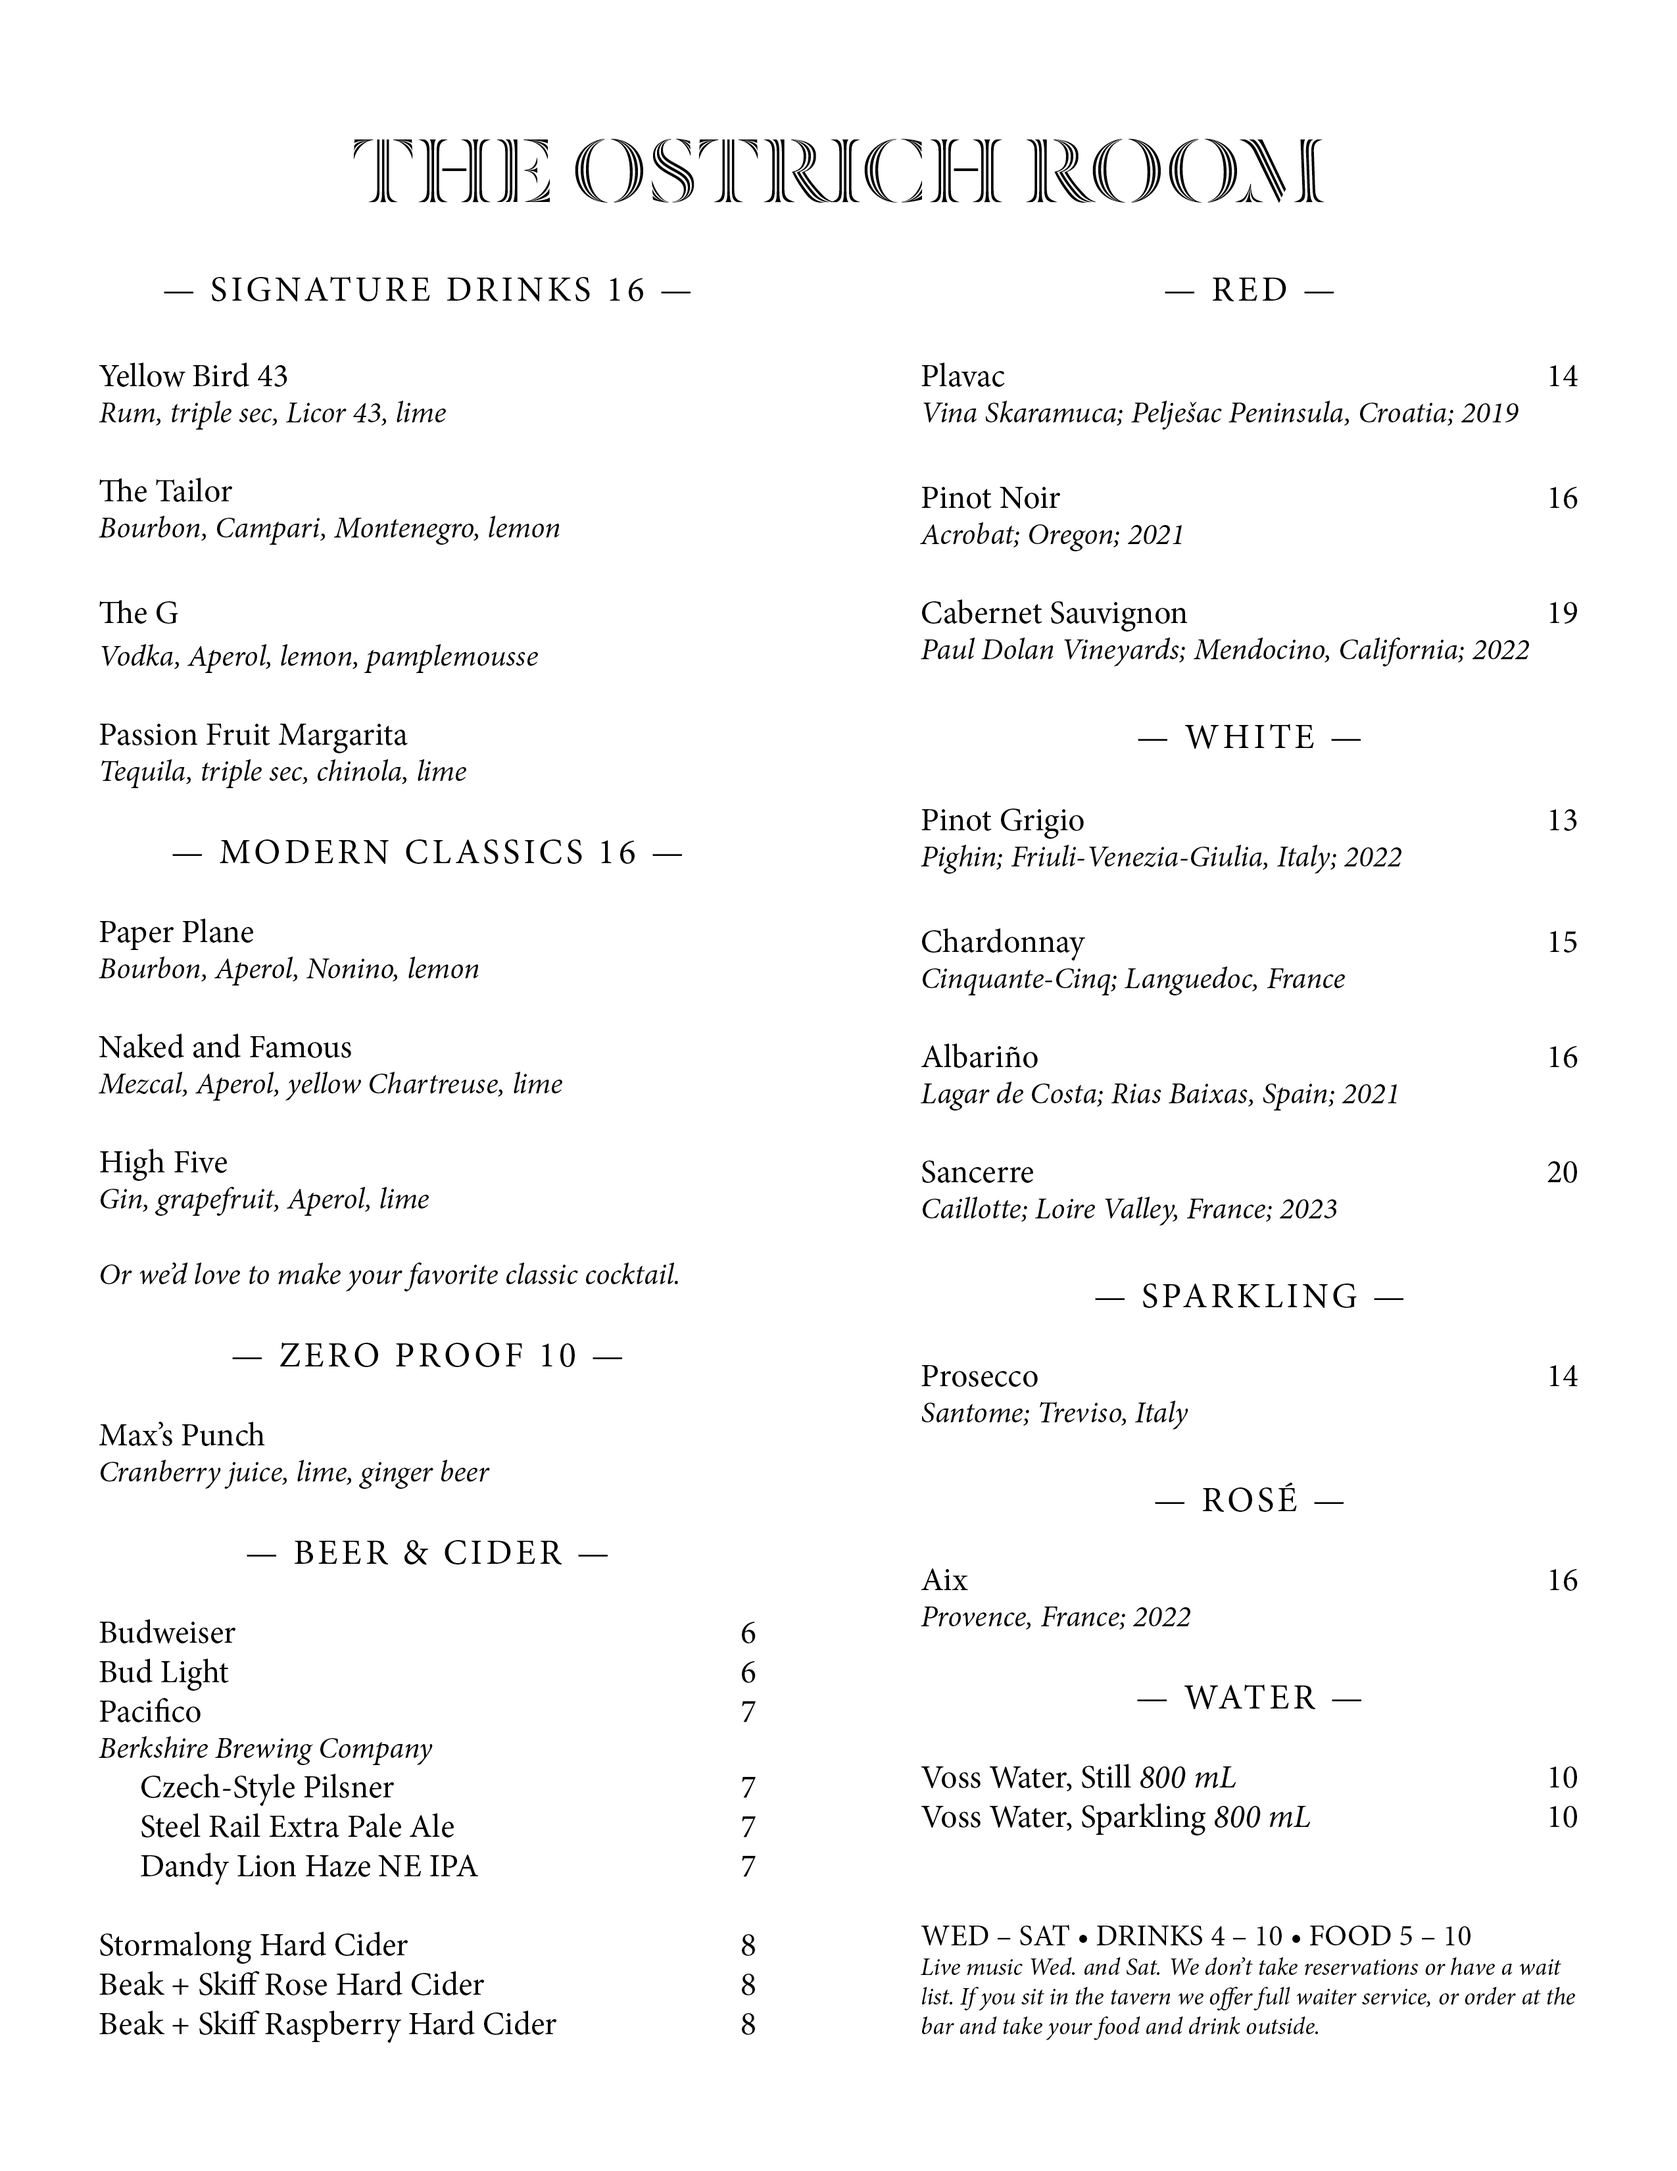
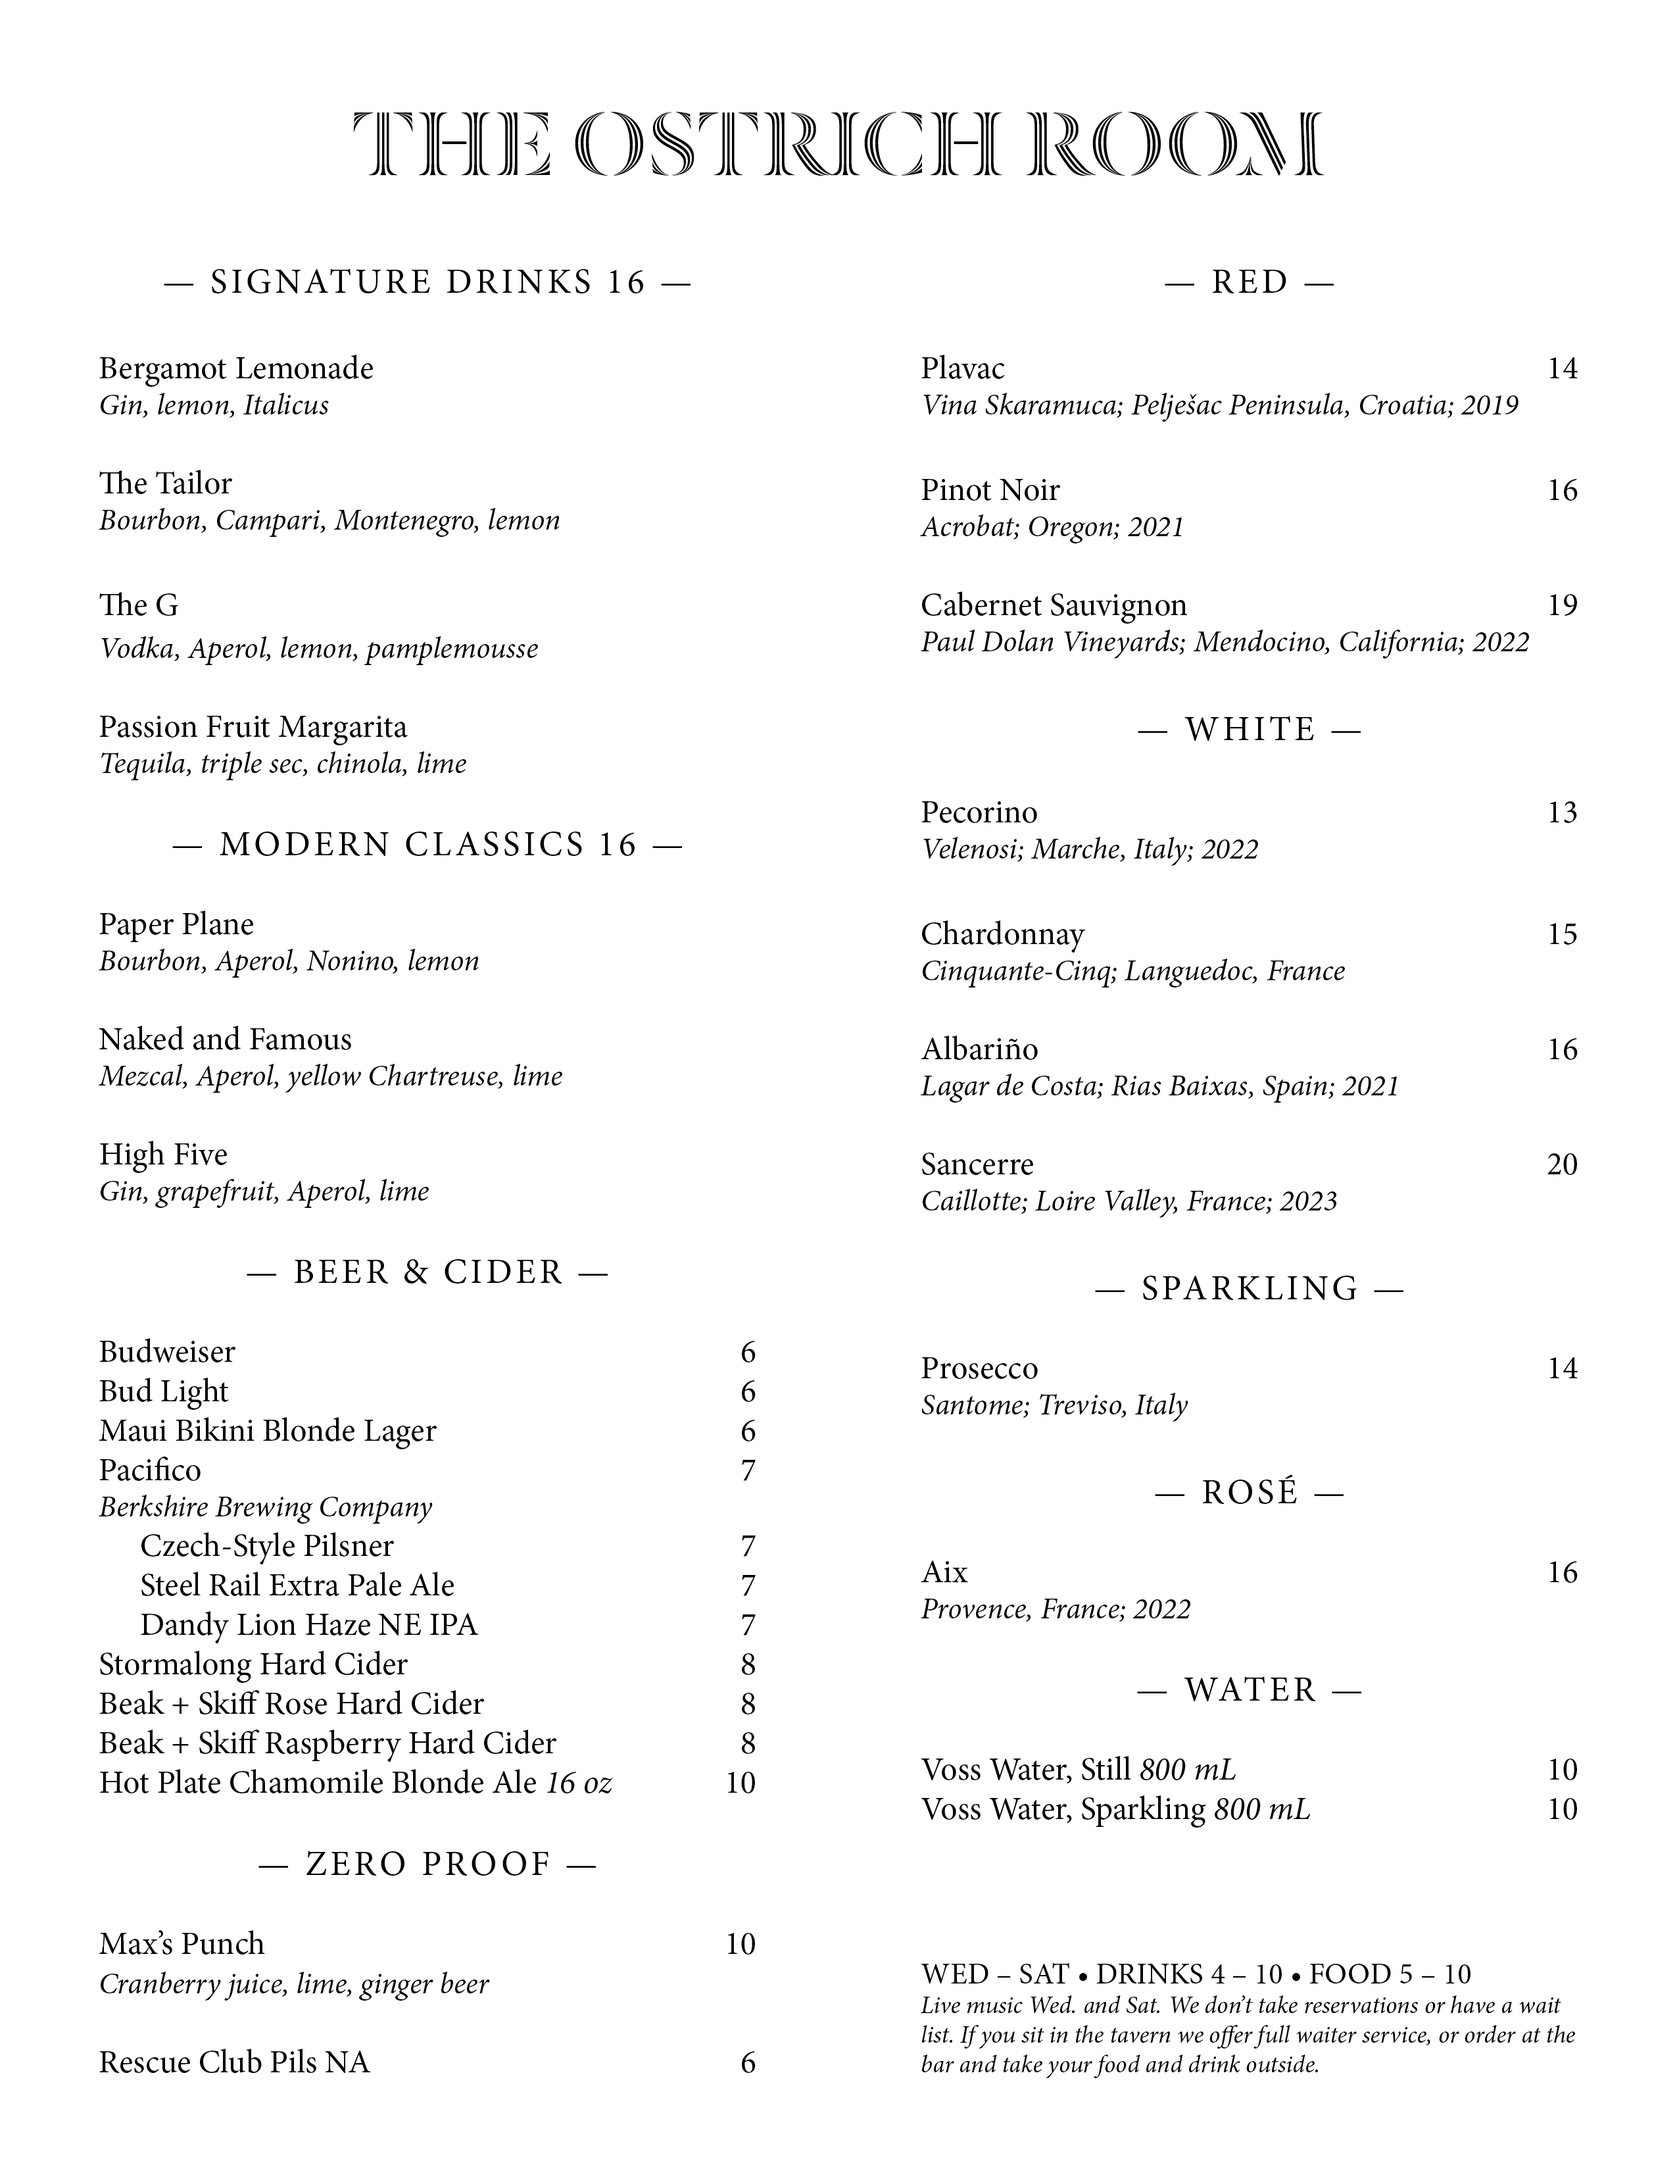
updated menus, now even widths

diff --git a/.svelte-kit/ambient.d.ts b/.svelte-kit/ambient.d.ts
@@ -31,18 +31,19 @@ declare module '$env/static/private' {
 	export const NODE: string;
 	export const FNM_LOGLEVEL: string;
 	export const INIT_CWD: string;
-	export const TERM: string;
 	export const SHELL: string;
+	export const TERM: string;
 	export const FNM_NODE_DIST_MIRROR: string;
 	export const npm_config_metrics_registry: string;
-	export const HOMEBREW_REPOSITORY: string;
 	export const TMPDIR: string;
+	export const HOMEBREW_REPOSITORY: string;
 	export const npm_config_global_prefix: string;
 	export const TERM_PROGRAM_VERSION: string;
 	export const ZDOTDIR: string;
 	export const ORIGINAL_XDG_CURRENT_DESKTOP: string;
 	export const MallocNanoZone: string;
 	export const COLOR: string;
+	export const TERM_SESSION_ID: string;
 	export const npm_config_noproxy: string;
 	export const npm_config_local_prefix: string;
 	export const USER: string;
@@ -68,14 +69,14 @@ declare module '$env/static/private' {
 	export const npm_package_name: string;
 	export const LANG: string;
 	export const VSCODE_GIT_ASKPASS_EXTRA_ARGS: string;
-	export const FNM_MULTISHELL_PATH: string;
 	export const XPC_FLAGS: string;
+	export const FNM_MULTISHELL_PATH: string;
 	export const npm_config_node_gyp: string;
 	export const npm_package_version: string;
 	export const XPC_SERVICE_NAME: string;
 	export const VSCODE_INJECTION: string;
-	export const SHLVL: string;
 	export const HOME: string;
+	export const SHLVL: string;
 	export const VSCODE_GIT_ASKPASS_MAIN: string;
 	export const HOMEBREW_PREFIX: string;
 	export const FNM_DIR: string;
@@ -86,8 +87,8 @@ declare module '$env/static/private' {
 	export const npm_config_user_agent: string;
 	export const VSCODE_GIT_ASKPASS_NODE: string;
 	export const GIT_ASKPASS: string;
-	export const INFOPATH: string;
 	export const HOMEBREW_CELLAR: string;
+	export const INFOPATH: string;
 	export const npm_node_execpath: string;
 	export const npm_config_prefix: string;
 	export const COLORTERM: string;
@@ -128,18 +129,19 @@ declare module '$env/dynamic/private' {
 		NODE: string;
 		FNM_LOGLEVEL: string;
 		INIT_CWD: string;
-		TERM: string;
 		SHELL: string;
+		TERM: string;
 		FNM_NODE_DIST_MIRROR: string;
 		npm_config_metrics_registry: string;
-		HOMEBREW_REPOSITORY: string;
 		TMPDIR: string;
+		HOMEBREW_REPOSITORY: string;
 		npm_config_global_prefix: string;
 		TERM_PROGRAM_VERSION: string;
 		ZDOTDIR: string;
 		ORIGINAL_XDG_CURRENT_DESKTOP: string;
 		MallocNanoZone: string;
 		COLOR: string;
+		TERM_SESSION_ID: string;
 		npm_config_noproxy: string;
 		npm_config_local_prefix: string;
 		USER: string;
@@ -165,14 +167,14 @@ declare module '$env/dynamic/private' {
 		npm_package_name: string;
 		LANG: string;
 		VSCODE_GIT_ASKPASS_EXTRA_ARGS: string;
-		FNM_MULTISHELL_PATH: string;
 		XPC_FLAGS: string;
+		FNM_MULTISHELL_PATH: string;
 		npm_config_node_gyp: string;
 		npm_package_version: string;
 		XPC_SERVICE_NAME: string;
 		VSCODE_INJECTION: string;
-		SHLVL: string;
 		HOME: string;
+		SHLVL: string;
 		VSCODE_GIT_ASKPASS_MAIN: string;
 		HOMEBREW_PREFIX: string;
 		FNM_DIR: string;
@@ -183,8 +185,8 @@ declare module '$env/dynamic/private' {
 		npm_config_user_agent: string;
 		VSCODE_GIT_ASKPASS_NODE: string;
 		GIT_ASKPASS: string;
-		INFOPATH: string;
 		HOMEBREW_CELLAR: string;
+		INFOPATH: string;
 		npm_node_execpath: string;
 		npm_config_prefix: string;
 		COLORTERM: string;

diff --git a/src/routes/ostrich-room/+page.svelte b/src/routes/ostrich-room/+page.svelte
@@ -118,7 +118,7 @@
 
 	.menus {
 		display: grid;
-		grid-template-columns: 8.5fr 5.5fr;
+		grid-template-columns: 1fr 1fr;
 		gap: 1em;
 		width: 100%;
 	}
